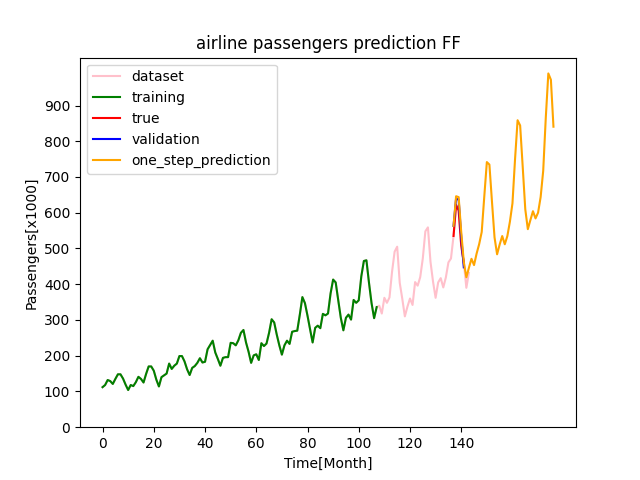
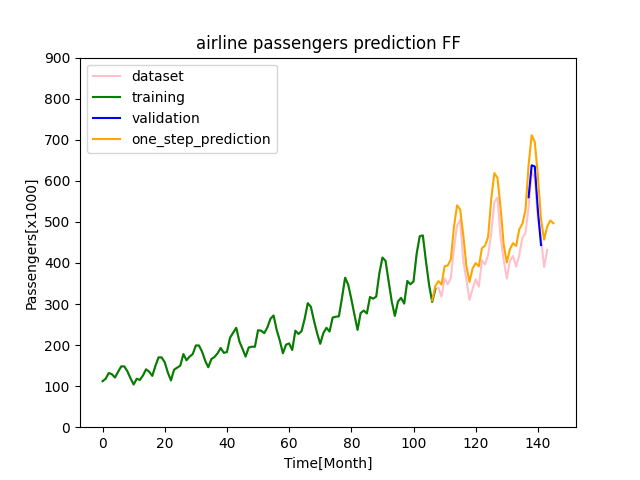
remove true value from plot

diff --git a/TimeSeriesPrediction/2_UnivariatTimeSeriesForecast/AirlinePassengers/Keras/FF/airline_passengers_keras_ff.py b/TimeSeriesPrediction/2_UnivariatTimeSeriesForecast/AirlinePassengers/Keras/FF/airline_passengers_keras_ff.py
@@ -72,11 +72,8 @@ def validation_forecast(model, inputs):
 validation_results = validation_forecast(model, test_inputs)
 
 validation = pd.DataFrame()
-validation["true"] = test_targets
 validation["validation"] = validation_results
 validation.index += airlinePassengers.threshold+lookback
-
-print(validation["true"])
 
 
 def one_step_ahead_forecast(model, current_value, number_of_predictions):
@@ -89,19 +86,18 @@ def one_step_ahead_forecast(model, current_value, number_of_predictions):
         current_value = current_value.reshape(1, current_value.shape[0])
     return one_step_ahead_forecast
 
-
-start_value = test_inputs[0]
+start_index = -1
+start_value = train_inputs[start_index]
 start_value_reshaped = start_value.reshape(1, start_value.shape[0])
 number_of_predictions = 40
 prediction_results = one_step_ahead_forecast(model, start_value_reshaped, number_of_predictions)
 
 prediction = pd.DataFrame()
 prediction["one_step_prediction"] = prediction_results
-prediction.index += airlinePassengers.threshold+lookback
+prediction.index += airlinePassengers.threshold+start_index
 
 plt.plot(airlinePassengers.data["Passengers"], color="pink", label="dataset")
 plt.plot(airlinePassengers.get_train_data(), color="green", label="training")
-plt.plot(validation["true"], color="red", label="true")
 plt.plot(validation["validation"], color="blue", label="validation")
 plt.plot(prediction["one_step_prediction"], color="orange", label="one_step_prediction")
 plt.title("airline passengers prediction FF")
